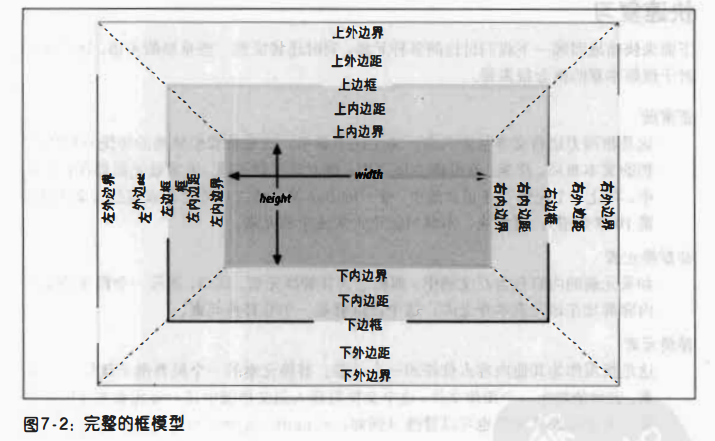
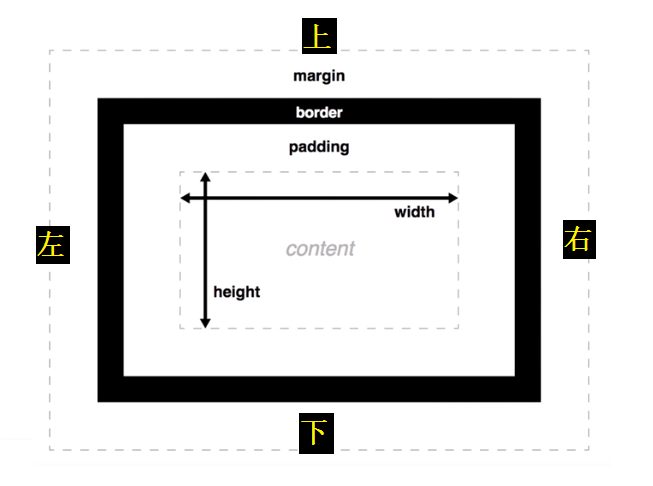
finish

diff --git a/_posts/originalNote/css/2017-09-04-css-box-model.md b/_posts/originalNote/css/2017-09-04-css-box-model.md
@@ -15,15 +15,15 @@ tag: CSS
 
 ## 一、什么是盒子模型
 
-`css`盒子模型(`Box Model`)，又称框模型。包含了元素内容（`content`）、内边距（`padding`）、边框（`border`）、外边距（`margin`）几个要素。
+> * 盒子模型：每个元素都被描绘成矩形盒子，这些矩形盒子通过一个模型来描述其占用空间。
+
+![relationship-map]({{ '/styles/images/css/box/box-16.png' | prepend: site.baseurl }})
 
 ## 二、盒子模型的分类
 
-如下图所示：
-
-![relationship-map]({{ '/styles/images/css/box/box-01.gif' | prepend: site.baseurl }})
-
 ### 2.1 W3C盒子模型
+
+![relationship-map]({{ '/styles/images/css/box/box-14.png' | prepend: site.baseurl }})
 
 * 外盒尺寸计算（**元素空间尺寸**）
     * 元素空间高度＝内容高度＋内距＋边框＋外距
@@ -34,6 +34,8 @@ tag: CSS
     * 元素宽度＝内容宽度＋内距＋边框（`width就是内容宽度`）
 
 ### 2.2 IE盒子模型
+
+![relationship-map]({{ '/styles/images/css/box/box-15.png' | prepend: site.baseurl }})
 
 * 外盒尺寸计算（**元素空间尺寸**）
     * 元素空间高度＝内容高度＋外距（`height包含了元素内容宽度、边框、内距`）
@@ -76,3 +78,5 @@ if (document.compatMode == "CSS1Compat"){
     alert("Quirks mode");
 } 
 ```
+
+
